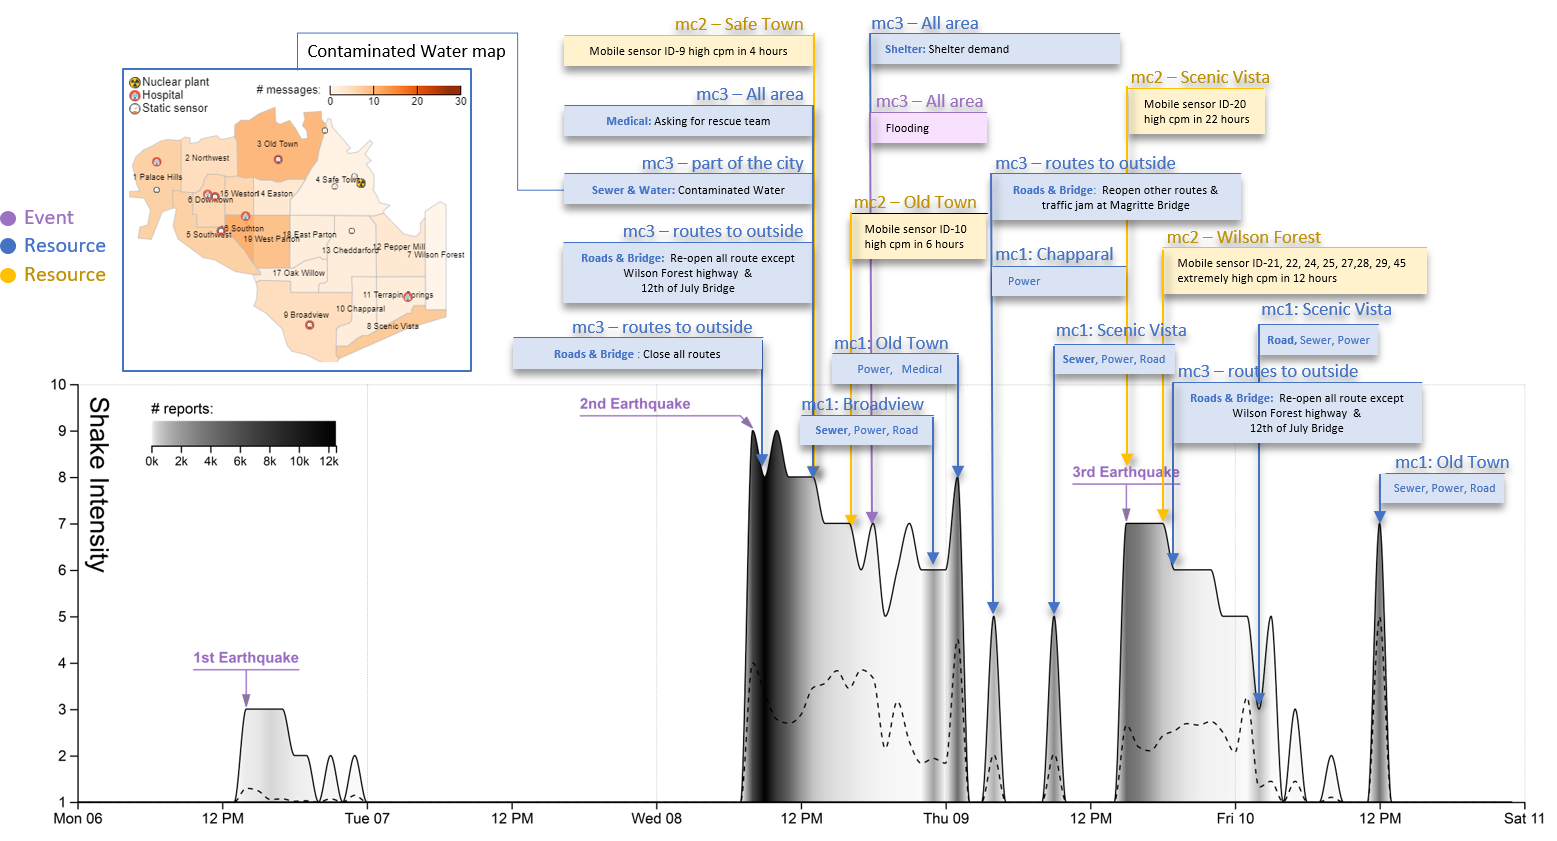
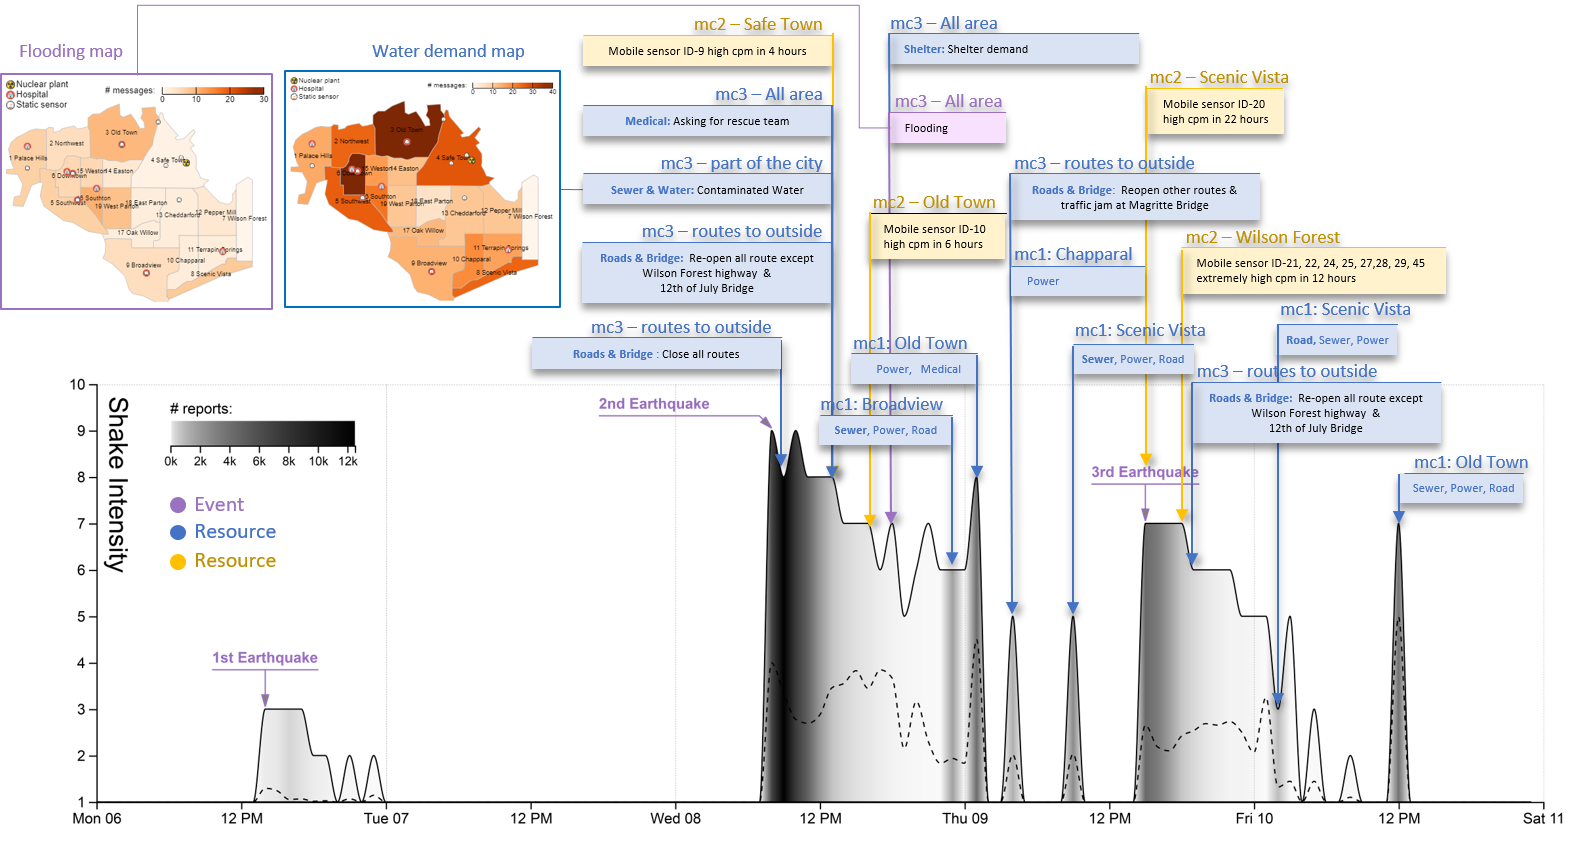
up

diff --git a/VAST19/gc/TTU-Vuong-GC/index.htm b/VAST19/gc/TTU-Vuong-GC/index.htm
@@ -108,13 +108,19 @@
 </page>
 <page size="A3">
     <div class="pageContent">
-        The master timeline is shown in figure 1 display all event collected from the multi mini-challenge. The 1st earthquake occurs about 2 pm April 06 has low shake intensity and less attention from the citizen.
+        The master timeline is shown in figure 1 display all event collected from the multi mini-challenge:
+        <br>
+        <br>
+        The 1st earthquake occurs about 2 pm April 06 has low shake intensity and less attention from the citizen.
+        <br>
+        <br>
         The 2nd earthquake happens about 8:00 am on April 08 and have every high shake intensity. Just one hour after the hit, all route has been closed. Due to the earthquake, the Nuclear plant has a sign of leak radian.
         Although the static sensor around nuclear plant does not have high CPM (radiation value), a mobile car ID 9 drives to near static sensor 15 and sent CPM value up to 500 CPM during 4 hours until that car leave Safe Town.
-        At the same time, the message from HealthDept about contaminated water and broken sewer pile has been release. In detail, five neighborhoods Old Town, Safe Town, Scenic Vista, Broadview, Chapparal, and Easton are related to this event.
+        At the same time, the message from HealthDept about contaminated water and broken sewer pile has been release. In detail, five neighborhoods Old Town, Safe Town, Scenic Vista, Broadview, Chapparal, and Easton are related to this event. Moreover, the demand and concern of water is significantly increased at this time.
         Meanwhile, all route reopen except Wilson forest high-way and 12th July bridge (a bridge connect from Safe Town to outside of the city). The traffic jam makes the mobile sensor ID 10 stand in the Jade bridge for hours, even after Jade bridge reopened. At 4:00 pm April 06 ( 8 hours after the second earthquake).
         The mobile sensor ID 10 start to get high CPM up to 1500 CPM for over 6 hours later. Once again, the static sensor is not coincident with the mobile sensor. The static mobile ID 12 at the same location of mobile sensor ID 10 have minimal increment (from 16cmp to 27cpm), this can be a sight of the problem of the static sensor in general; the static senor may have the wrong measurement and always maintain in the safe radiation value.
-        Why mobile sensor ID 10 has the high CPM is unknown, however, according to media post from mini-challenge 3, this can be the result of broken pile
+        Why mobile sensor ID 10 has the high CPM is unknown, however, according to media post from mini-challenge 3, this can be the result of broken piles (water out of the street) in Old Town and contaminated event.
+        10 hours after the second earthquake,
 
         In figure 2, the damaged report (A) is not precise and usually has high uncertainty when the number of report is low or the shake intensity is not defined. In mini-challenge 2 (B), the static sensor is not synchronize with the mobile sensor and not reliable.
         The report from Y*nt message (C) has the uncertainty depending to the spam filter and the text analysis technique.
